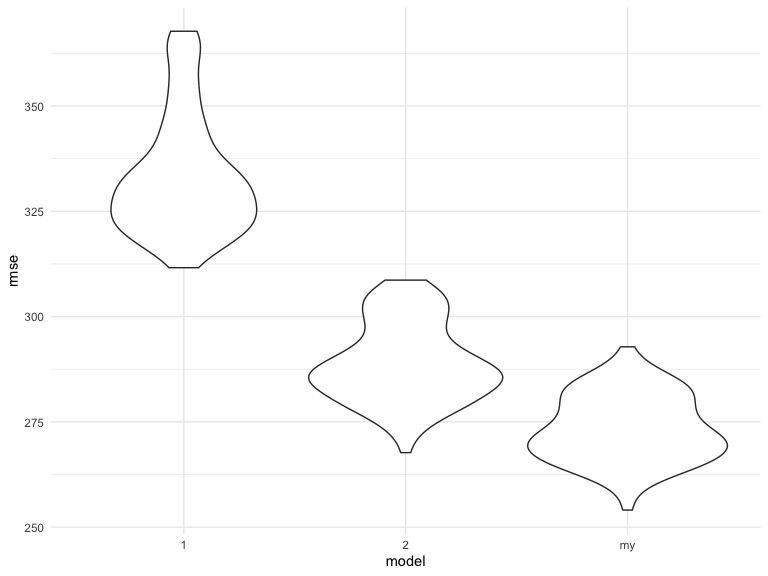
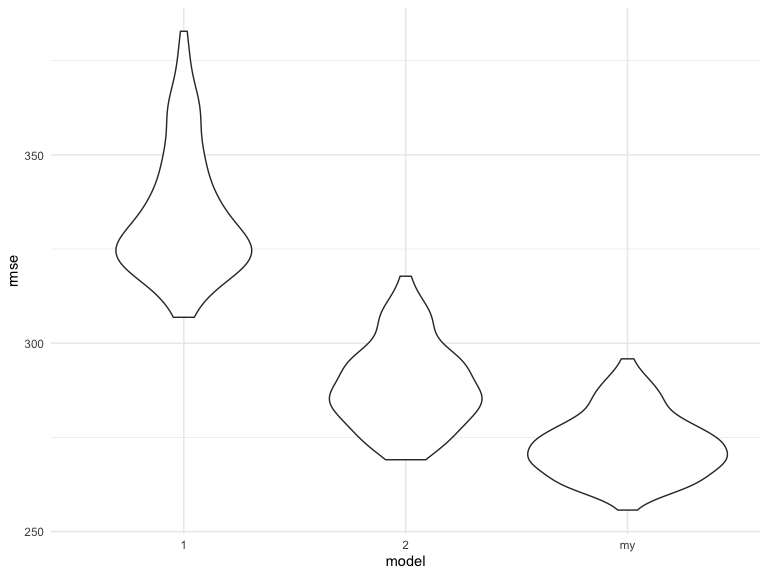
add description

diff --git a/p8105_hw6_yl4607.md b/p8105_hw6_yl4607.md
@@ -1,7 +1,7 @@
 Homework 6
 ================
 Yue Liu
-2020-12-05
+2020-12-08
 
 ## Problem 1
 
@@ -179,20 +179,6 @@ summary(my_model)
     ## Multiple R-squared:  0.7181, Adjusted R-squared:  0.7173 
     ## F-statistic: 848.1 on 13 and 4328 DF,  p-value: < 2.2e-16
 
-``` r
-# glm(bwt ~ ., data = birthweight_df) %>% 
-#   step(direction = 'both',
-#        scope = list(lower = . ~ 1,
-#                     uppwer = .~.^2),
-#        trace = 0)
-# 
-# terms(my_model) %>% 
-#   attr("term.labels") %>% 
-#   str_c(., collapse =  "+") %>% 
-#   str_c("bwt ~ ",.) %>% 
-#   as.formula()
-```
-
 According to the results, my model will contain predictors `babysex`,
 `bhead`(baby’s head circumference), `blength` (baby’s length at birth),
 `delwt`(mother’s weight), `fincome`(family monthly income),
@@ -256,6 +242,9 @@ cv_df %>%
 
 <img src="p8105_hw6_yl4607_files/figure-gfm/unnamed-chunk-9-1.png" width="90%" />
 
+From the plot we can see that `my model` has the lowest rmse among all
+three polts.
+
 ``` r
 cv_df %>% 
   select(starts_with("rmse")) %>% 
@@ -266,19 +255,21 @@ cv_df %>%
     names_prefix = "rmse_"
   ) %>% 
   group_by(model) %>% 
-  summarize(avg_rmse = mean(rmse))
+  summarize(avg_rmse = mean(rmse)) %>% 
+  knitr::kable()
 ```
 
     ## `summarise()` ungrouping output (override with `.groups` argument)
 
-    ## # A tibble: 3 x 2
-    ##   model avg_rmse
-    ##   <chr>    <dbl>
-    ## 1 1         333.
-    ## 2 2         289.
-    ## 3 my        273.
+| model | avg\_rmse |
+| :---- | --------: |
+| 1     |  334.1208 |
+| 2     |  288.8328 |
+| my    |  272.8895 |
 
 ## Problem 3
+
+Load in data
 
 ``` r
 weather_df = 
@@ -304,10 +295,14 @@ weather_df =
 
     ## file min/max dates: 1869-01-01 / 2020-10-31
 
+Bootstap 5000 samples:
+
 ``` r
+set.seed(1)
+
 boot_results = 
   weather_df %>% 
-  bootstrap(100, id = "strap_number") %>% 
+  bootstrap(5000, id = "strap_number") %>% 
   mutate(
     models = map(.x = strap, ~ lm(tmax ~ tmin, data = .x)),
     results = map(models, broom::tidy)
@@ -330,25 +325,33 @@ boot_results =
   mutate(log = log(tmin*intercept))
 ```
 
-Distribution plot of r^2
+Distribution plot of r^2.
 
 ``` r
 boot_results %>% 
   ggplot(aes(x = r_squared)) +
-  geom_density()
+  geom_density() +
+  labs(title = "distribution plot of r^2")
 ```
 
 <img src="p8105_hw6_yl4607_files/figure-gfm/unnamed-chunk-14-1.png" width="90%" />
+
+From the plot we can see a bell-shaped distribution with a median value
+at about 0.91, indicating then normal distribution of r^2.
 
 Distribution plot of log(beta0\*beta1)
 
 ``` r
 boot_results %>% 
   ggplot(aes(x = log)) +
-  geom_density()
+  geom_density()+
+  labs(title = "distribution plot of coefficients")
 ```
 
 <img src="p8105_hw6_yl4607_files/figure-gfm/unnamed-chunk-15-1.png" width="90%" />
+
+From the plot we can see a bell-shaped distribution with a median value
+at about 2.00, indicating then normal distribution of log(beta0\*beta1).
 
 95% Confidence Interval for r^2 and log(beta0\*beta1):
 
@@ -365,4 +368,8 @@ boot_results %>%
     ## # A tibble: 1 x 4
     ##   r2_ci_lower r2_ci_upper beta_ci_lower beta_ci_upper
     ##         <dbl>       <dbl>         <dbl>         <dbl>
-    ## 1       0.894       0.927          1.98          2.06
+    ## 1       0.894       0.927          1.96          2.06
+
+The 95% confidence interval for r^2 is (0.894, 0.927).
+
+The 95% confidence interval for log(beta0\*beta1) is (1.96, 2.06).
